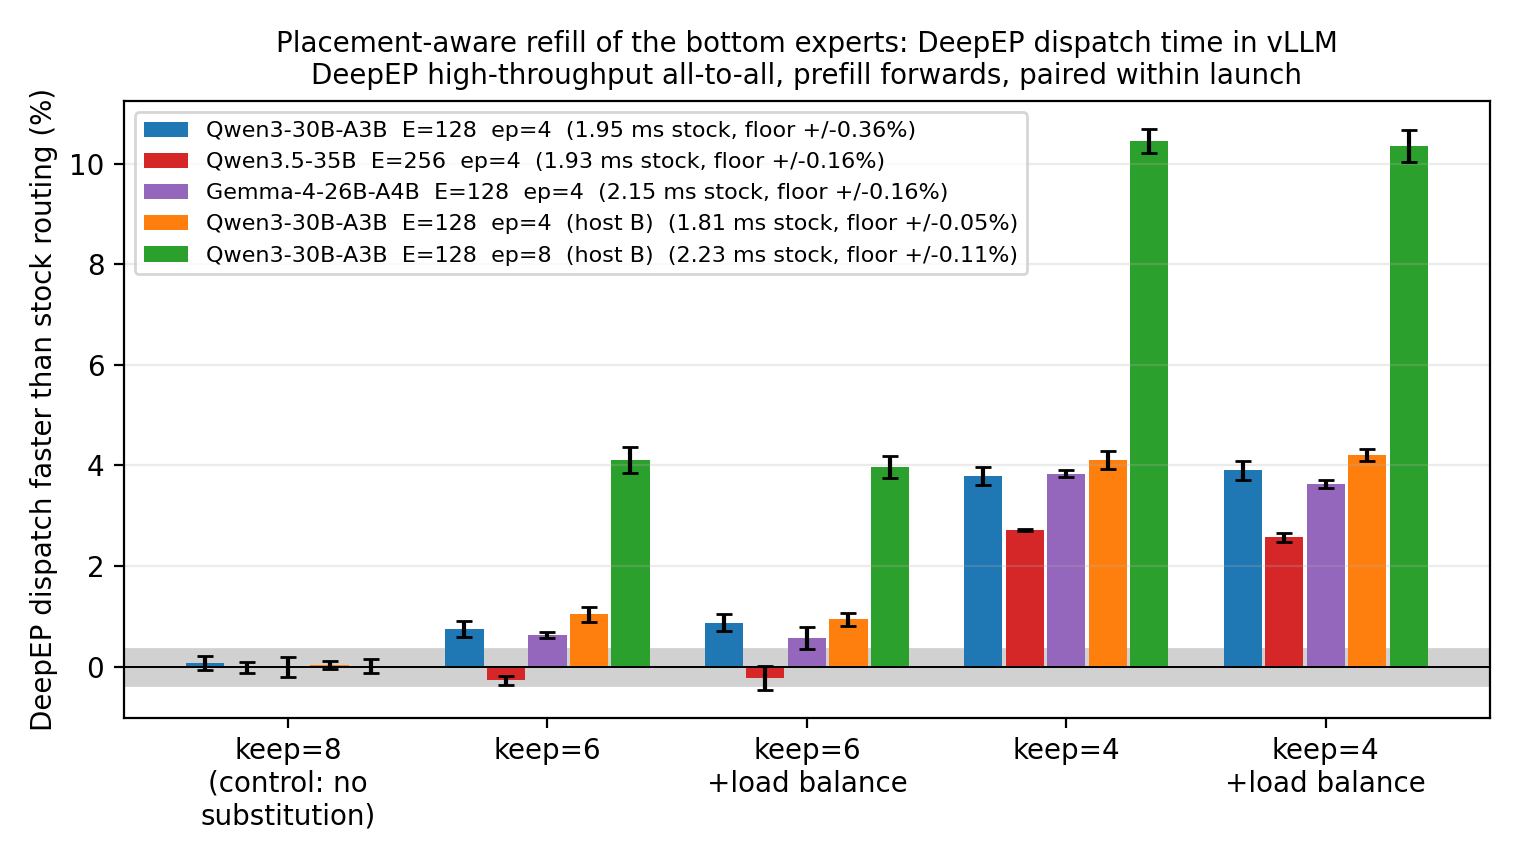
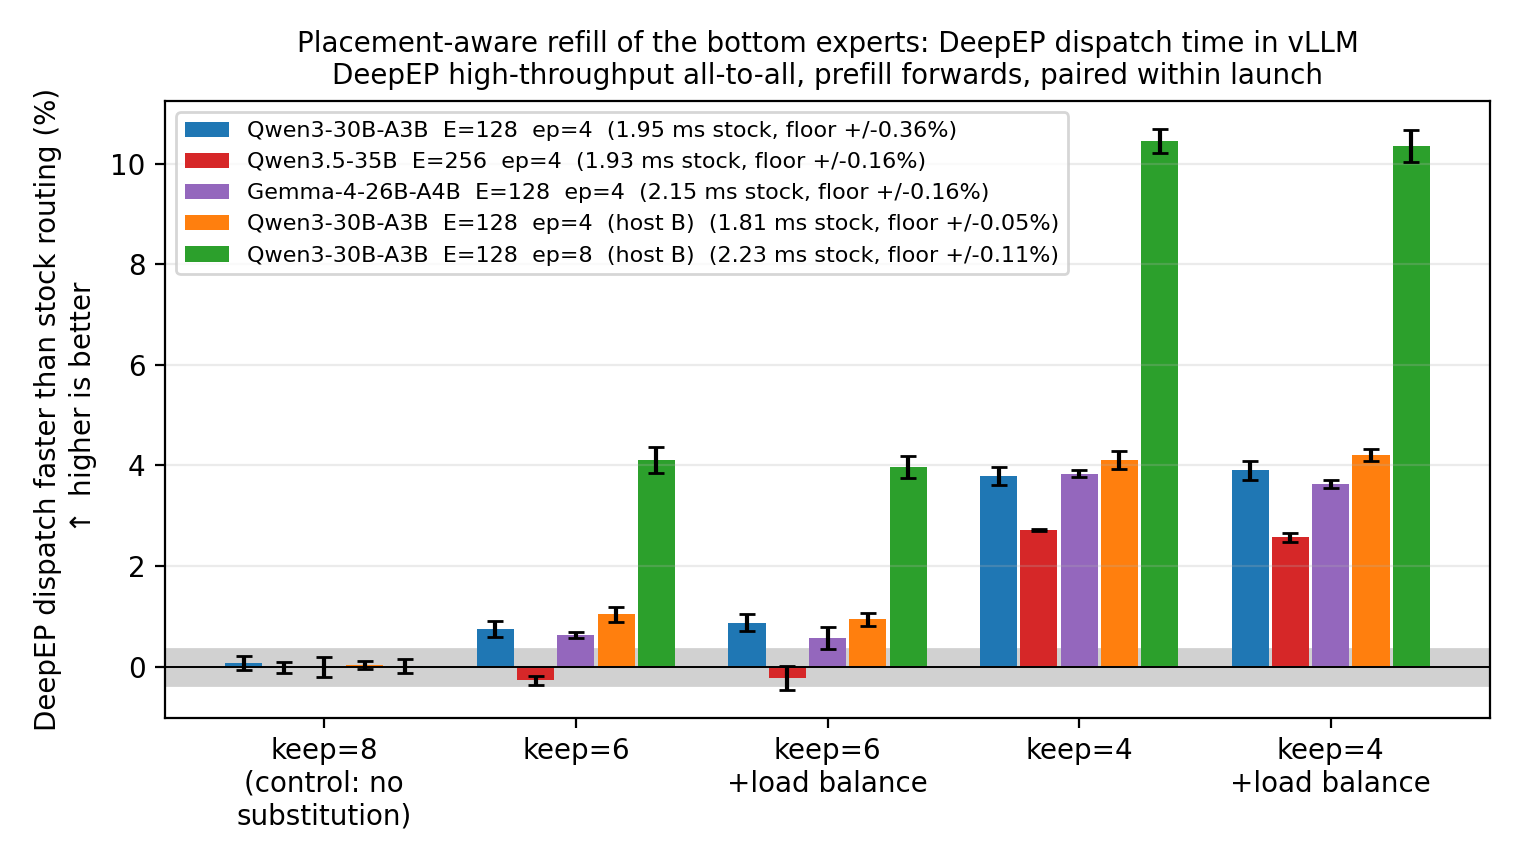
Mark which direction is better on every axis and column
The percentage columns and the ms column point opposite ways, which a reader
had to infer from the caption. Put an arrow on each: the y axis carries
'higher is better', every percentage header an up arrow, and the stock-ms
header a down arrow. Track the combine figure too, since it is the term that
sets the sign of the whole-layer clock.

diff --git a/experiments/moeplot.py b/experiments/moeplot.py
@@ -130,7 +130,7 @@ def main() -> None:
     ax.axhspan(-band, band, color="0.82", zorder=0)
     ax.axhline(0, color="black", lw=0.7)
     ax.set_xticks(range(len(arms)), [arm_label(a) for a in arms])
-    ax.set_ylabel(f"{NAME} faster than stock routing (%)")
+    ax.set_ylabel(f"{NAME} faster than stock routing (%)\n" + r"$\uparrow$ higher is better")
     ax.set_title(f"Placement-aware refill of the bottom experts: {NAME} time in vLLM\n"
                  "DeepEP high-throughput all-to-all, prefill forwards, paired within launch",
                  fontsize=10)
@@ -139,8 +139,9 @@ def main() -> None:
     fig.tight_layout()
     fig.savefig(OUT, dpi=200)
 
-    rows = [f"| model | stock ms / {NAME.lower()} | tokens / forward | floor | "
-            + " | ".join(arm_label(a).replace("\n", " ") for a in arms) + " |",
+    rows = [f"| model | stock ms / {NAME.lower()} \u2193 | tokens / forward | "
+            "floor | " + " | ".join(arm_label(a).replace("\n", " ") + " \u2191"
+                                    for a in arms) + " |",
             "|---" * (len(arms) + 4) + "|"]
     for t in tags:
         # The launch count rides in the cell, not in one column: arms entered the grid at
@@ -159,7 +160,9 @@ def main() -> None:
         f"{NAME} time inside a running vLLM 0.31 engine on the DeepEP high-throughput "
         f"all-to-all, timed with CUDA events {where}, and reduced to a median per token-count "
         "bucket. Each arm is divided by the base arms of its own launch; `keep=8` "
-        "is the zero-substitution control. Positive is faster. The floor is that model's own "
+        "is the zero-substitution control. Positive is faster, so in every percentage column "
+        "higher is better (marked \u2191 in the header; \u2193 marks the one column where lower "
+        "is better). The floor is that model's own "
         "widest base-against-base spread, halved, over the launches in its row.\n\n"
         f"{md}\n")
     print(md)

diff --git a/runs/disptime.md b/runs/disptime.md
@@ -1,6 +1,6 @@
-DeepEP dispatch time inside a running vLLM 0.31 engine on the DeepEP high-throughput all-to-all, timed with CUDA events around `DeepEPHTPrepareAndFinalize.prepare_async` and the wait on its completion event - the all-to-all the rule shrinks, and reduced to a median per token-count bucket. Each arm is divided by the base arms of its own launch; `keep=8` is the zero-substitution control. Positive is faster. The floor is that model's own widest base-against-base spread, halved, over the launches in its row.
+DeepEP dispatch time inside a running vLLM 0.31 engine on the DeepEP high-throughput all-to-all, timed with CUDA events around `DeepEPHTPrepareAndFinalize.prepare_async` and the wait on its completion event - the all-to-all the rule shrinks, and reduced to a median per token-count bucket. Each arm is divided by the base arms of its own launch; `keep=8` is the zero-substitution control. Positive is faster, so in every percentage column higher is better (marked ↑ in the header; ↓ marks the one column where lower is better). The floor is that model's own widest base-against-base spread, halved, over the launches in its row.
 
-| model | stock ms / deepep dispatch | tokens / forward | floor | keep=8 (control: no substitution) | keep=6 | keep=6 +load balance | keep=4 | keep=4 +load balance |
+| model | stock ms / deepep dispatch ↓ | tokens / forward | floor | keep=8 (control: no substitution) ↑ | keep=6 ↑ | keep=6 +load balance ↑ | keep=4 ↑ | keep=4 +load balance ↑ |
 |---|---|---|---|---|---|---|---|---|
 | Qwen3-30B-A3B  E=128  ep=4 | 1.95 | 16384 | +/-0.36% | **+0.1%** x5 | **+0.7%** x5 | **+0.9%** x5 | **+3.8%** x4 | **+3.9%** x3 |
 | Qwen3.5-35B  E=256  ep=4 | 1.93 | 16384 | +/-0.16% | **-0.0%** x3 | **-0.3%** x2 | **-0.2%** x3 | **+2.7%** x2 | **+2.6%** x3 |

diff --git a/runs/moetime.md b/runs/moetime.md
@@ -1,6 +1,6 @@
-MoE layer time inside a running vLLM 0.31 engine on the DeepEP high-throughput all-to-all, timed with CUDA events around `MoERunner._forward_impl` - routing, dispatch, expert GEMM, combine, and reduced to a median per token-count bucket. Each arm is divided by the base arms of its own launch; `keep=8` is the zero-substitution control. Positive is faster. The floor is that model's own widest base-against-base spread, halved, over the launches in its row.
+MoE layer time inside a running vLLM 0.31 engine on the DeepEP high-throughput all-to-all, timed with CUDA events around `MoERunner._forward_impl` - routing, dispatch, expert GEMM, combine, and reduced to a median per token-count bucket. Each arm is divided by the base arms of its own launch; `keep=8` is the zero-substitution control. Positive is faster, so in every percentage column higher is better (marked ↑ in the header; ↓ marks the one column where lower is better). The floor is that model's own widest base-against-base spread, halved, over the launches in its row.
 
-| model | stock ms / moe layer | tokens / forward | floor | keep=8 (control: no substitution) | keep=6 | keep=6 +load balance | keep=4 | keep=4 +load balance |
+| model | stock ms / moe layer ↓ | tokens / forward | floor | keep=8 (control: no substitution) ↑ | keep=6 ↑ | keep=6 +load balance ↑ | keep=4 ↑ | keep=4 +load balance ↑ |
 |---|---|---|---|---|---|---|---|---|
 | Qwen3-30B-A3B  E=128  ep=4 | 8.08 | 16384 | +/-0.20% | **-0.6%** x7 | **-2.1%** x7 | **+2.0%** x5 | **-5.1%** x6 | **-1.5%** x4 |
 | Qwen3.5-35B  E=256  ep=4 | 7.00 | 16384 | +/-0.22% | **-0.4%** x5 | **-1.8%** x4 | **+0.5%** x3 | **-2.0%** x4 | **-1.1%** x3 |

diff --git a/README.md b/README.md
@@ -193,7 +193,7 @@ the zero-substitution control: the kernel runs and selects nothing different.
 ![In-engine DeepEP dispatch time](runs/disptime.png)
 
 <!-- disptime -->
-| model | stock ms / deepep dispatch | tokens / forward | floor | keep=8 (control: no substitution) | keep=6 | keep=6 +load balance | keep=4 | keep=4 +load balance |
+| model | stock ms / deepep dispatch ↓ | tokens / forward | floor | keep=8 (control: no substitution) ↑ | keep=6 ↑ | keep=6 +load balance ↑ | keep=4 ↑ | keep=4 +load balance ↑ |
 |---|---|---|---|---|---|---|---|---|
 | Qwen3-30B-A3B  E=128  ep=4 | 1.95 | 16384 | +/-0.36% | **+0.1%** x5 | **+0.7%** x5 | **+0.9%** x5 | **+3.8%** x4 | **+3.9%** x3 |
 | Qwen3.5-35B  E=256  ep=4 | 1.93 | 16384 | +/-0.16% | **-0.0%** x3 | **-0.3%** x2 | **-0.2%** x3 | **+2.7%** x2 | **+2.6%** x3 |
@@ -221,7 +221,7 @@ also what the load-balance term is for - adding the max-rank-load penalty to the
 (`PLACEMENT_LOAD_PENALTY=1`) keeps the dispatch saving and pays the skew back:
 
 <!-- moetime -->
-| model | stock ms / moe layer | tokens / forward | floor | keep=8 (control: no substitution) | keep=6 | keep=6 +load balance | keep=4 | keep=4 +load balance |
+| model | stock ms / moe layer ↓ | tokens / forward | floor | keep=8 (control: no substitution) ↑ | keep=6 ↑ | keep=6 +load balance ↑ | keep=4 ↑ | keep=4 +load balance ↑ |
 |---|---|---|---|---|---|---|---|---|
 | Qwen3-30B-A3B  E=128  ep=4 | 8.08 | 16384 | +/-0.20% | **-0.6%** x7 | **-2.1%** x7 | **+2.0%** x5 | **-5.1%** x6 | **-1.5%** x4 |
 | Qwen3.5-35B  E=256  ep=4 | 7.00 | 16384 | +/-0.22% | **-0.4%** x5 | **-1.8%** x4 | **+0.5%** x3 | **-2.0%** x4 | **-1.1%** x3 |

diff --git a/runs/combtime.md b/runs/combtime.md
@@ -1,0 +1,9 @@
+DeepEP combine time inside a running vLLM 0.31 engine on the DeepEP high-throughput all-to-all, timed with CUDA events around `DeepEPHTPrepareAndFinalize._finalize` and the wait on its completion event, and reduced to a median per token-count bucket. Each arm is divided by the base arms of its own launch; `keep=8` is the zero-substitution control. Positive is faster, so in every percentage column higher is better (marked ↑ in the header; ↓ marks the one column where lower is better). The floor is that model's own widest base-against-base spread, halved, over the launches in its row.
+
+| model | stock ms / deepep combine ↓ | tokens / forward | floor | keep=8 (control: no substitution) ↑ | keep=6 ↑ | keep=6 +load balance ↑ | keep=4 ↑ | keep=4 +load balance ↑ |
+|---|---|---|---|---|---|---|---|---|
+| Qwen3-30B-A3B  E=128  ep=4 | 2.23 | 16384 | +/-0.46% | **+0.1%** x5 | **-7.8%** x5 | **+9.1%** x5 | **-21.9%** x4 | **-7.7%** x3 |
+| Qwen3.5-35B  E=256  ep=4 | 2.17 | 16384 | +/-0.18% | **+0.1%** x3 | **-4.6%** x2 | **+4.9%** x3 | **-14.6%** x2 | **-8.7%** x3 |
+| Gemma-4-26B-A4B  E=128  ep=4 | 3.04 | 16384 | +/-0.46% | **+0.4%** x2 | **-6.2%** x3 | **+27.2%** x2 | **-18.4%** x2 | **+11.6%** x3 |
+| Qwen3-30B-A3B  E=128  ep=4  (host B) | 2.14 | 16384 | +/-0.44% | **-0.0%** x4 | **-9.8%** x4 | **+9.2%** x4 | **-23.8%** x4 | **-5.7%** x4 |
+| Qwen3-30B-A3B  E=128  ep=8  (host B) | 5.18 | 16384 | +/-0.41% | **+0.5%** x7 | **-9.9%** x7 | **-1.8%** x9 | **-21.8%** x6 | **-13.6%** x6 |
